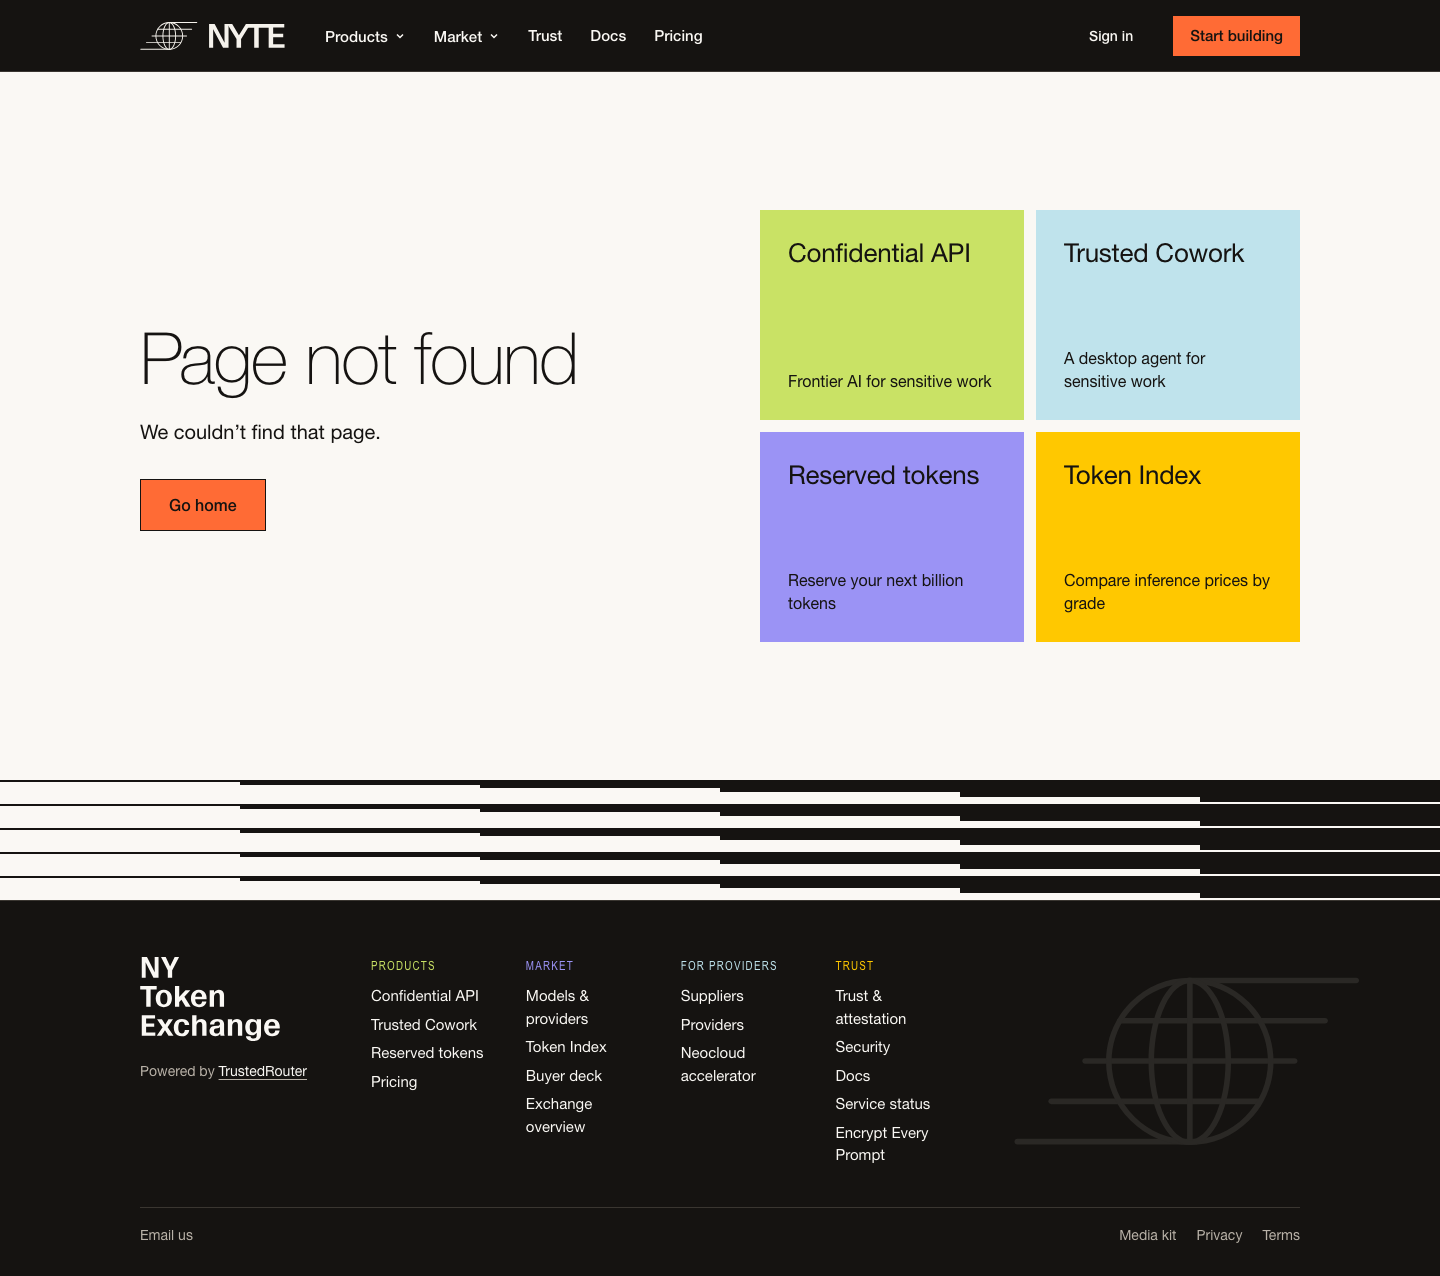
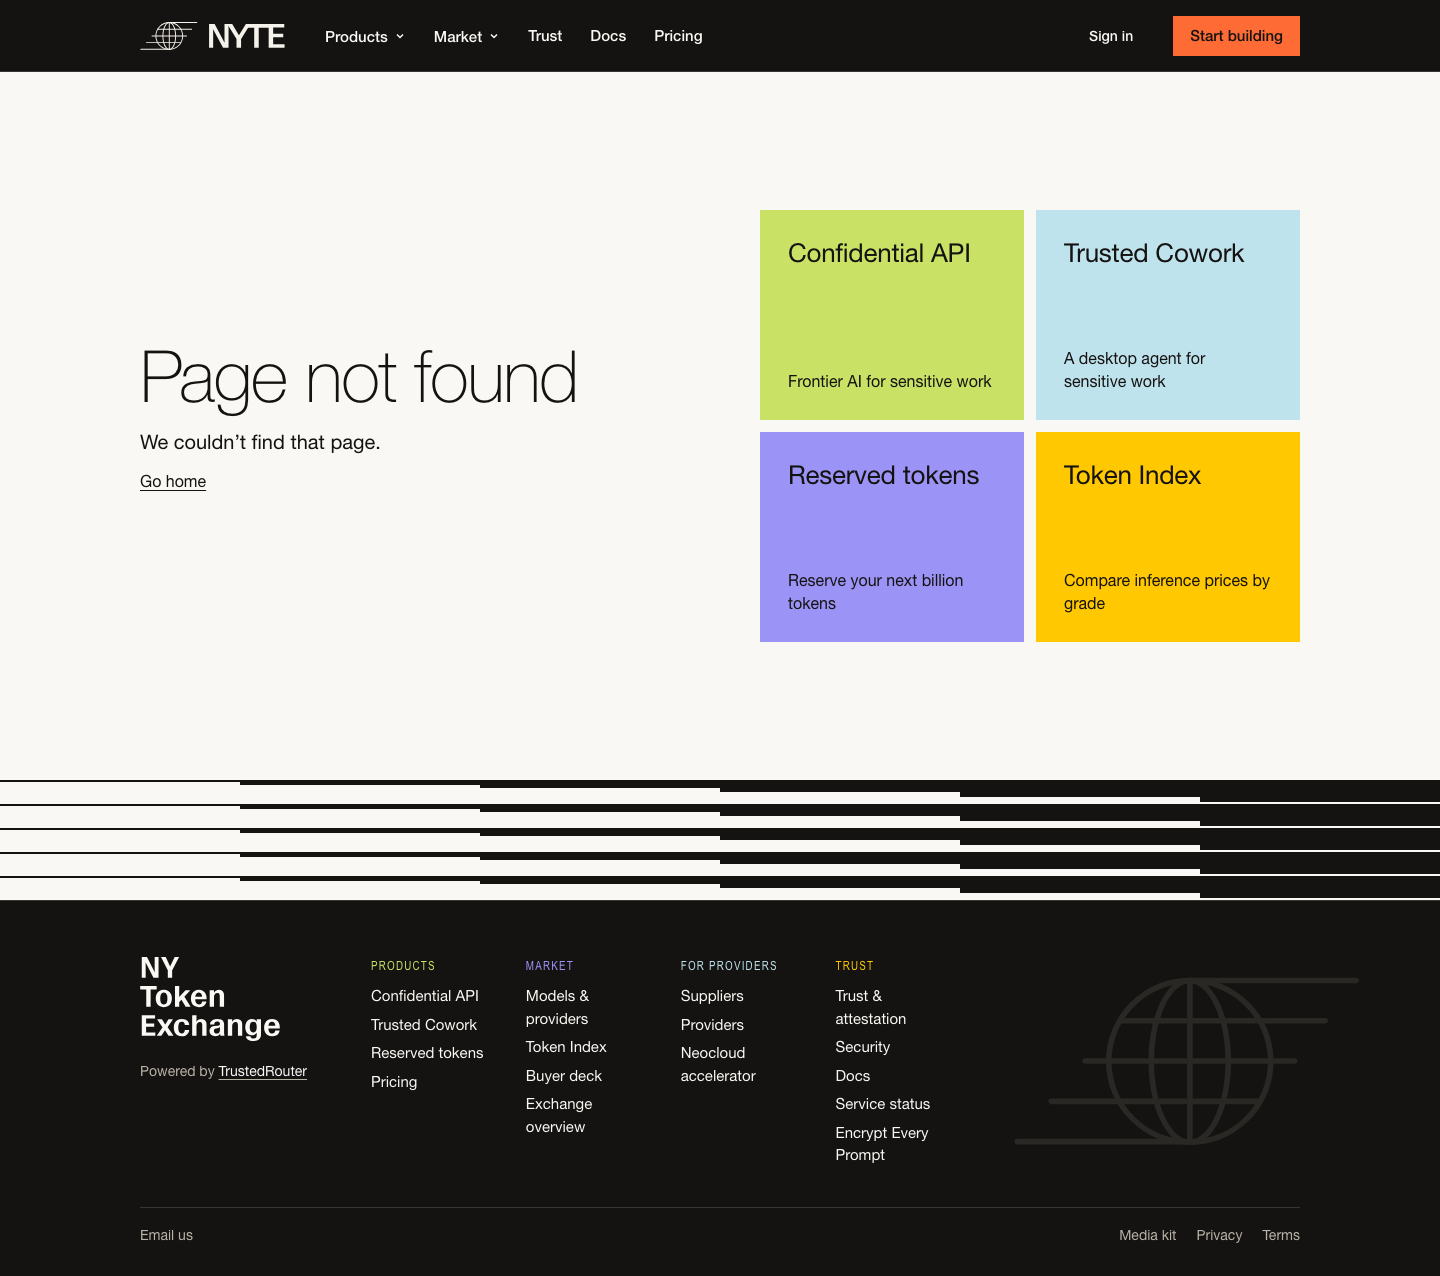
Simplify NYTE 404 home link and tighten spacing

Changed region(s): [[0.0938, 0.2445, 0.4062, 0.4279]]

diff --git a/sites/token-exchange/nyte-v2/not-found.css b/sites/token-exchange/nyte-v2/not-found.css
@@ -1,9 +1,11 @@
 /* C2: shared NYTE shell, intrinsic tiles, and the existing brand band. */
 .not-found.wrap{max-width:1280px;min-height:708px;padding:80px 60px;display:grid;grid-template-columns:repeat(2,minmax(0,1fr));gap:80px;align-items:center}
-.not-found-copy{display:flex;flex-direction:column;align-items:flex-start;gap:24px;min-width:0}
-.not-found-copy h1{margin:0;font-size:clamp(44px,5vw,72px);line-height:1;letter-spacing:-.02em}
-.not-found-copy p{margin:0;font-size:20px;line-height:1.5}
-.not-found-copy .btn{width:auto;min-height:52px;height:auto;margin-top:8px;padding:14px 28px;font-size:16px;line-height:1.4}
+.not-found-copy{display:flex;flex-direction:column;align-items:flex-start;gap:0;min-width:0}
+.not-found-copy h1{margin:0 0 16px;font-size:clamp(44px,5vw,72px);line-height:1;letter-spacing:-.02em}
+.not-found-copy p{margin:0 0 12px;font-size:20px;line-height:1.5}
+.not-found-home{display:inline-flex;align-items:flex-start;min-height:44px;color:var(--ink);font-size:16px;line-height:1.5;text-decoration:underline;text-underline-offset:.2em}
+.not-found-home:hover{color:var(--ink);text-decoration-thickness:2px}
+.not-found-home:focus-visible{outline:2px solid var(--ink);outline-offset:4px}
 .not-found-pages{display:grid;grid-template-columns:repeat(2,minmax(0,1fr));gap:12px;min-width:0}
 .not-found-tile{min-height:210px;padding:28px;display:flex;flex-direction:column;justify-content:space-between;gap:28px;color:var(--ink);text-decoration:none;overflow-wrap:anywhere}
 .not-found-tile:hover{color:var(--ink);text-decoration:none}
@@ -21,11 +23,9 @@
   .not-found-tile span:first-child{font-size:22px}
 }
 @media(max-width:800px){
-  .not-found.wrap{min-height:747px;grid-template-columns:1fr;padding:64px 20px;gap:36px;align-content:center}
-  .not-found-copy{gap:20px}
+  .not-found.wrap{min-height:747px;grid-template-columns:1fr;padding:64px 20px;gap:32px;align-content:center}
   .not-found-copy h1{font-size:44px}
   .not-found-copy p{font-size:18px}
-  .not-found-copy .btn{margin-top:4px}
   .not-found-pages{gap:10px}
   .not-found-tile{min-height:150px;padding:16px;gap:24px}
   .not-found-tile span:first-child{font-size:19px}

diff --git a/sites/token-exchange/nyte-v2/not-found.html b/sites/token-exchange/nyte-v2/not-found.html
@@ -2,7 +2,7 @@
   <div class="not-found-copy">
     <h1 id="not-found-title">Page not found</h1>
     <p>We couldn’t find that page.</p>
-    <a class="btn btn-primary" href="/">Go home</a>
+    <a class="not-found-home" href="/">Go home</a>
   </div>
   <nav class="not-found-pages" aria-label="Popular pages">
     <a class="not-found-tile not-found-api" href="/confidential"><span>Confidential API</span><span>Frontier AI for sensitive work</span></a>
